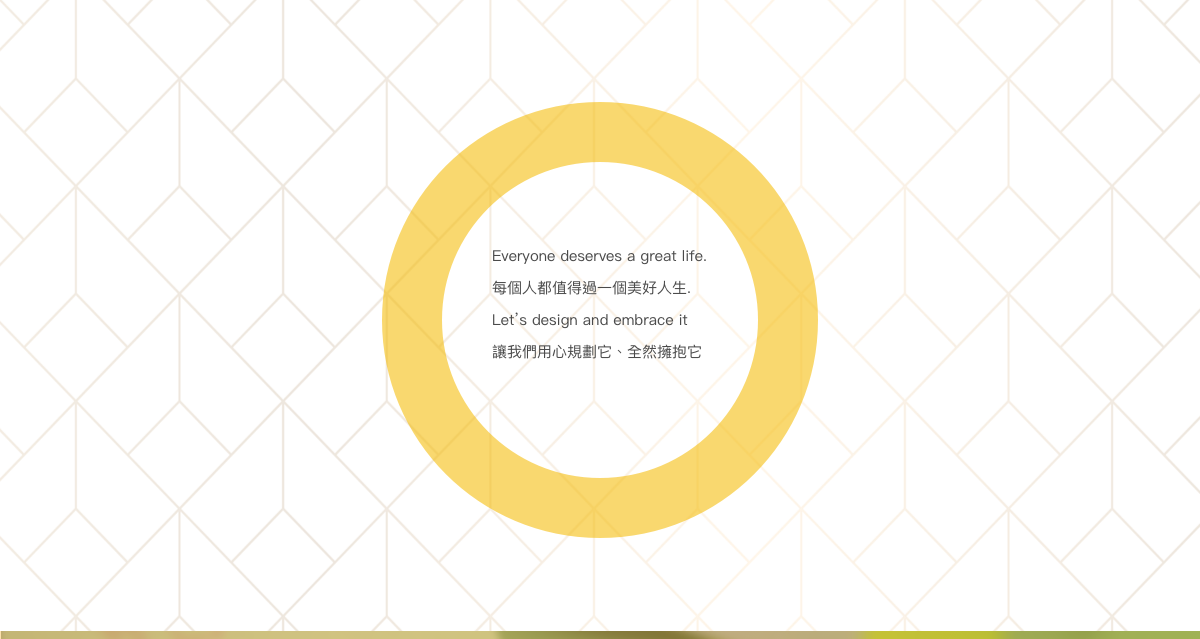
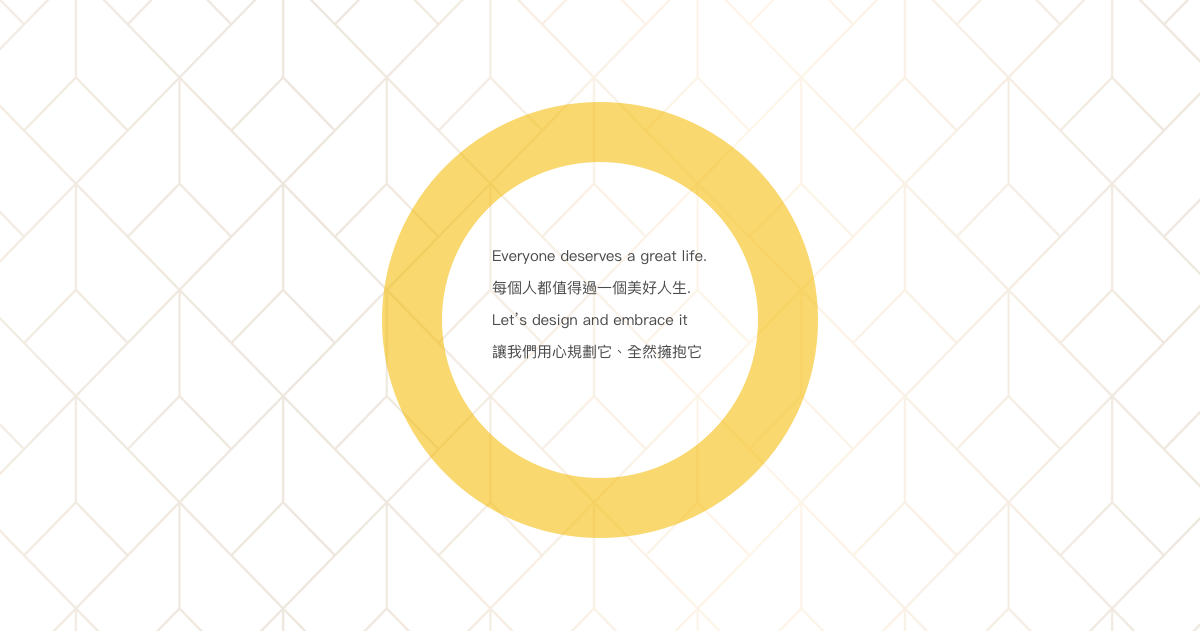
speaker update & slogan revise

diff --git a/index.html b/index.html
@@ -36,8 +36,9 @@
         fullHeight('why', 526);
         fullHeight('because', 553);
         fullHeight('what', 688);
+        fullHeight('speaker', 795);
         fullHeight('course', 718);
-        fullHeight('slogan', 688);
+        fullHeight('slogan', 631);
         fullHeight('contact', 598.4);
         fullHeight('moodwide', 546.6);
     });
@@ -50,6 +51,7 @@
         <div id="why" class="fullWidth"></div>
         <div id="because" class="fullWidth"></div>
         <div id="what" class="fullWidth"></div>
+        <div id="speaker" class="fullWidth"></div>
         <div id="course" class="fullWidth"></div>
         <div id="slogan" class="fullWidth"></div>
         <div id="contact" class="fullWidth"></div>
